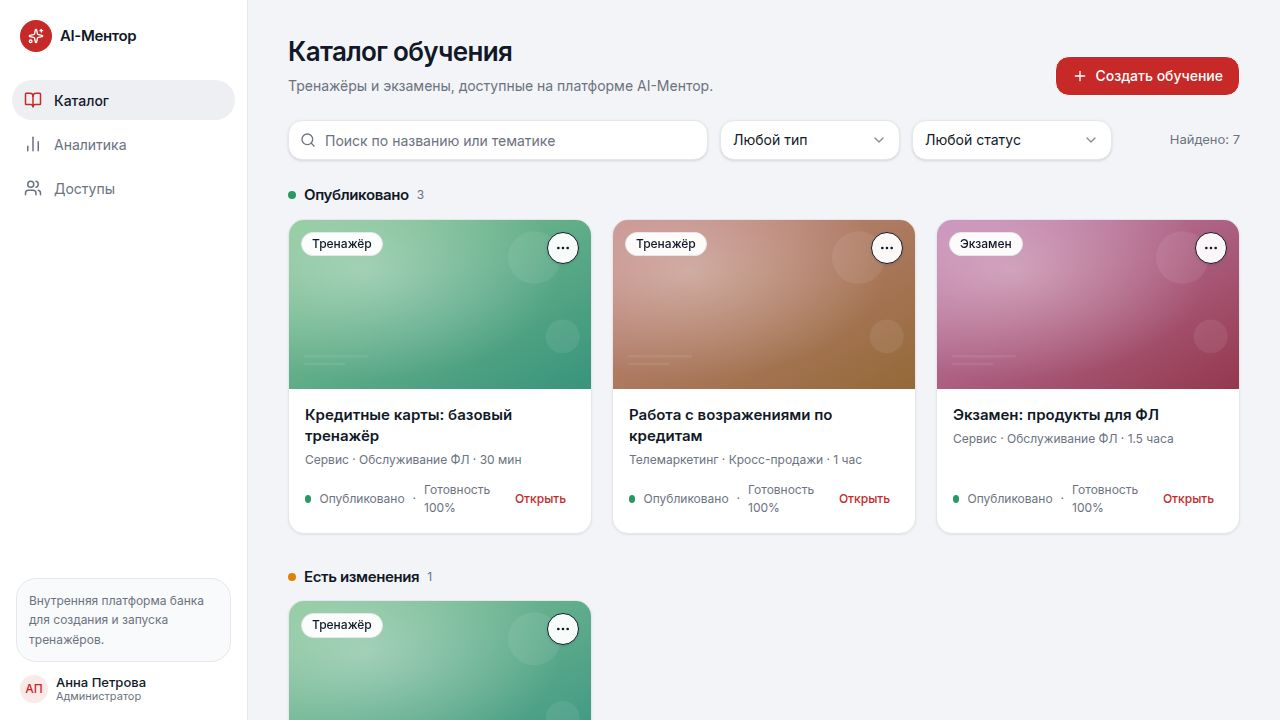
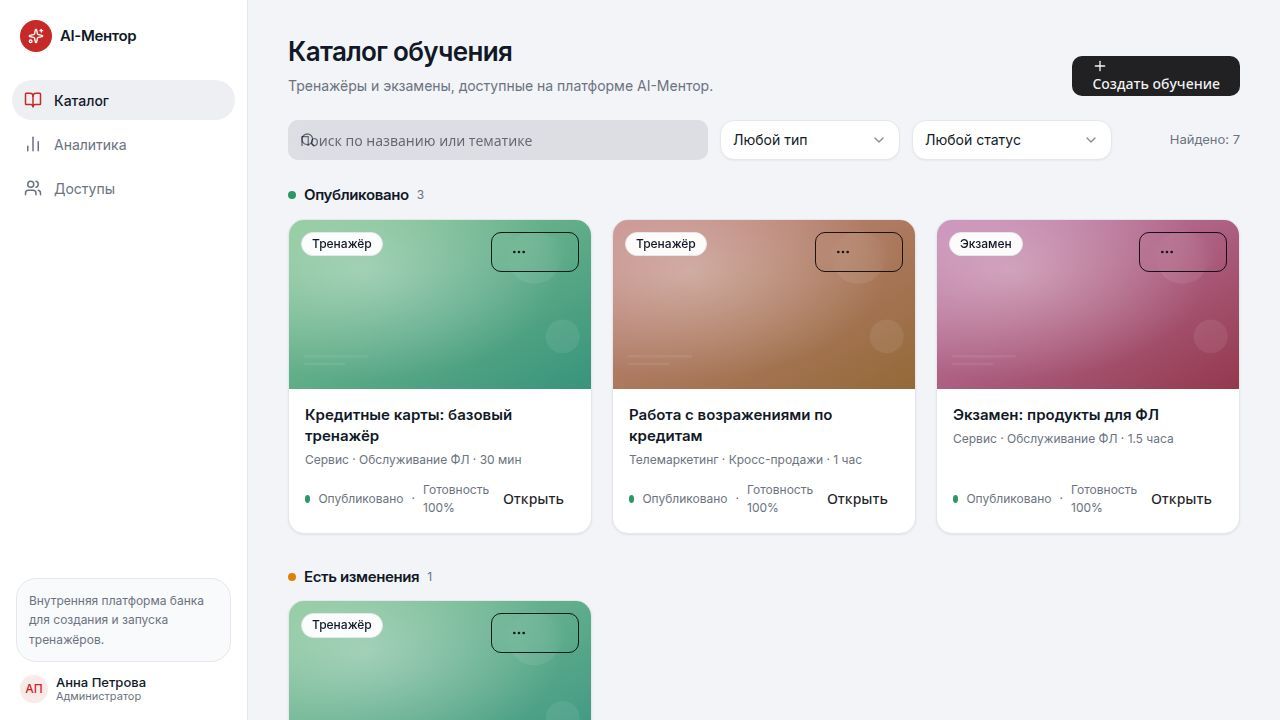
Improve button appearance and consistency across the application
Update button component to map accent variants to primary, and adjust styles for preview, check, and publish buttons in the builder page for better visual hierarchy and alignment.

Replit-Commit-Author: Agent
Replit-Commit-Session-Id: 3385d0f0-a504-4bce-8f57-371224a24e82
Replit-Commit-Checkpoint-Type: full_checkpoint
Replit-Commit-Event-Id: a5438a4f-9758-4352-a34c-c03c8a8418d2
Replit-Commit-Screenshot-Url: https://storage.googleapis.com/screenshot-production-us-central1/224f7186-49d2-4067-83de-60fe9173bb34/3385d0f0-a504-4bce-8f57-371224a24e82/Akq8Q5k
Replit-Helium-Checkpoint-Created: true

diff --git a/artifacts/ai-mentor/src/pages/builder/index.tsx b/artifacts/ai-mentor/src/pages/builder/index.tsx
@@ -302,17 +302,21 @@ export default function BuilderPage() {
           <Button variant="secondary" size="sm" className="gap-1.5" onClick={() => setLocation(`/preview/${id}`)}>
             <Eye className="w-4 h-4" /> Предпросмотр
           </Button>
-          <Button variant="secondary" size="sm" className="gap-1.5" onClick={() => setCheckOpen(true)}>
+          <Button variant="secondary" size="sm" onClick={() => setCheckOpen(true)}>
             <ShieldCheck className="w-4 h-4" />
-            Проверить
+            <span className="inline-flex items-center gap-1.5">
+              Проверить
             {report.errors.length > 0 && (
-              <span className="ml-1 inline-flex items-center justify-center min-w-[18px] h-[18px] rounded-full bg-error text-white text-[11px] px-1">
+                <span className="inline-flex items-center justify-center min-w-[16px] h-4 rounded-full bg-error text-white text-[10px] px-1 leading-none">
                 {report.errors.length}
               </span>
             )}
+            </span>
           </Button>
-          <Button size="sm" className="gap-1.5" onClick={handlePublish}>
-            <Send className="w-4 h-4" /> Опубликовать
+          <Button size="sm" onClick={handlePublish}>
+            <span className="inline-flex items-center gap-1.5">
+              <Send className="w-4 h-4" /> Опубликовать
+            </span>
           </Button>
         </div>
       </div>

diff --git a/artifacts/ai-mentor/src/components/ui/button.tsx b/artifacts/ai-mentor/src/components/ui/button.tsx
@@ -51,6 +51,7 @@ const VARIANT_TO_VIEW: Record<
   secondary: "secondary",
   ghost: "transparent",
   link: "text",
+  accent: "primary",
 }
 
 const SIZE_TO_NUM: Record<string, 32 | 40 | 48 | 56 | 64 | 72> = {
